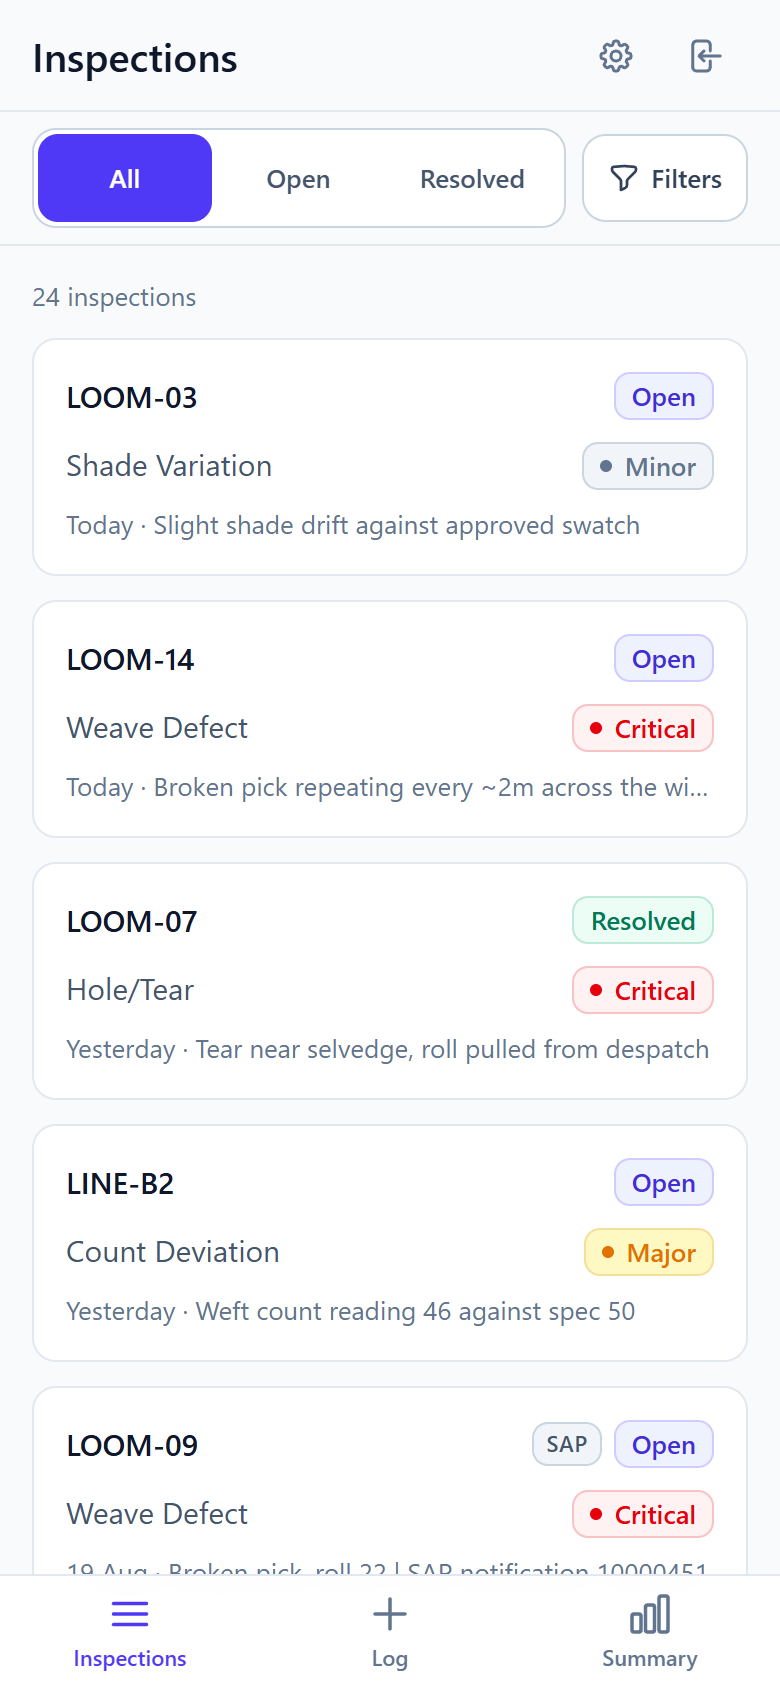
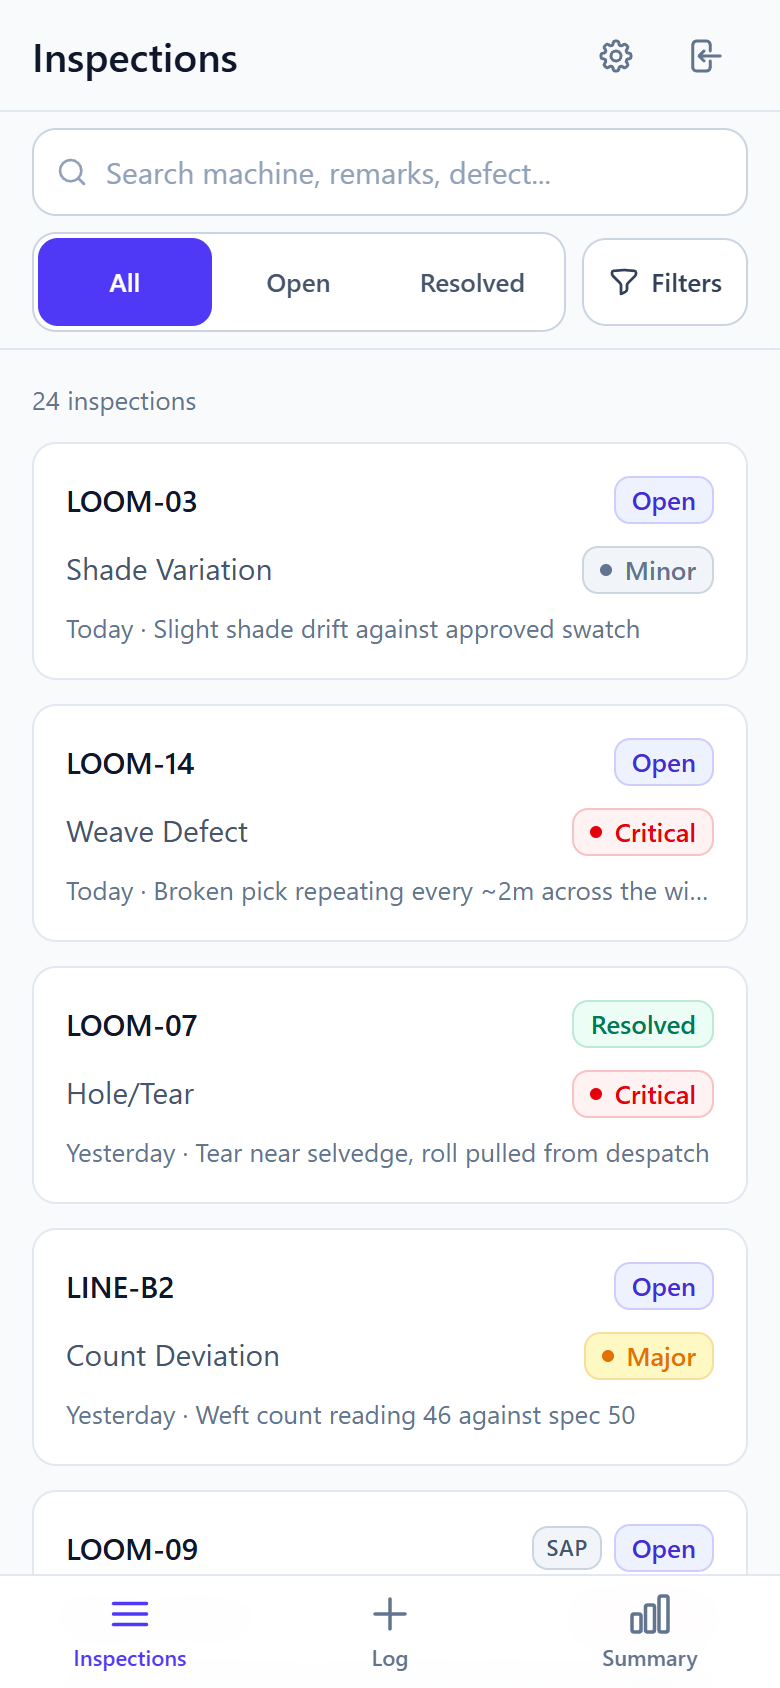
feat: free-text search across inspections
One box searching machine ID, remarks, resolution notes and defect type
name, since a supervisor usually half-remembers a job rather than its
exact filters. Debounced into the URL like every other filter, so the
result stays shareable and survives a refresh.

LIKE wildcards in the term are escaped -- searching 'LINE_A' must not
also match 'LINE-A'.

diff --git a/web/src/pages/ListPage.tsx b/web/src/pages/ListPage.tsx
@@ -21,6 +21,33 @@ export function ListPage() {
   const [sheetOpen, setSheetOpen] = useState(false);
 
   /*
+   * The search box keeps its own state so typing stays responsive, and is
+   * mirrored into the URL after a pause. Without the debounce every keystroke
+   * would reset the result set and fire a request.
+   */
+  const urlSearch = params.get('q') ?? '';
+  const [search, setSearch] = useState(urlSearch);
+
+  // Re-sync when the URL changes from elsewhere, e.g. "Clear filters".
+  useEffect(() => setSearch(urlSearch), [urlSearch]);
+
+  useEffect(() => {
+    if (search === urlSearch) return;
+    const timer = setTimeout(() => {
+      setParams(
+        (previous) => {
+          const next = new URLSearchParams(previous);
+          if (search) next.set('q', search);
+          else next.delete('q');
+          return next;
+        },
+        { replace: true },
+      );
+    }, 300);
+    return () => clearTimeout(timer);
+  }, [search, urlSearch, setParams]);
+
+  /*
    * Filter state lives in the URL, not in component state: the view is
    * shareable, survives a refresh, and the Android back button undoes a filter.
    * It also maps 1:1 onto the API's query params, so there is no syncing code.
@@ -89,7 +116,7 @@ export function ListPage() {
   const activeCount = SHEET_PARAMS.filter((key) => params.get(key)).length;
   const chips = buildChips(params, defectTypes ?? [], remove);
   const hasMore = meta ? items.length < meta.total : false;
-  const isFiltered = activeCount > 0 || Boolean(params.get('status'));
+  const isFiltered = activeCount > 0 || Boolean(params.get('status')) || Boolean(urlSearch);
 
   return (
     <AppShell
@@ -101,6 +128,9 @@ export function ListPage() {
           activeCount={activeCount}
           chips={chips}
           onOpenFilters={() => setSheetOpen(true)}
+          search={search}
+          onSearchChange={setSearch}
+          searchPending={search !== urlSearch}
         />
       }
     >
@@ -119,13 +149,21 @@ export function ListPage() {
         <EmptyState
           title={isFiltered ? 'No matching inspections' : 'No inspections yet'}
           description={
-            isFiltered
-              ? 'Nothing matches the current filters. Try widening them.'
-              : 'Log the first defect and it will appear here.'
+            urlSearch
+              ? `Nothing matches "${urlSearch}". Search covers machine ID, remarks, resolution notes and defect type.`
+              : isFiltered
+                ? 'Nothing matches the current filters. Try widening them.'
+                : 'Log the first defect and it will appear here.'
           }
           action={
             isFiltered ? (
-              <Button variant="secondary" onClick={() => setParams({}, { replace: true })}>
+              <Button
+                variant="secondary"
+                onClick={() => {
+                  setSearch('');
+                  setParams({}, { replace: true });
+                }}
+              >
                 Clear filters
               </Button>
             ) : (

diff --git a/api/src/inspections/repository.ts b/api/src/inspections/repository.ts
@@ -62,11 +62,29 @@ export interface CreateInspectionRecord {
   externalRef?: string | null;
 }
 
-const SELECT_INSPECTION = `
-  SELECT i.*, d.name AS defect_type, d.code AS defect_type_code
+const FROM_INSPECTIONS = `
   FROM inspections i
   JOIN defect_types d ON d.id = i.defect_type_id
 `;
+
+const SELECT_INSPECTION = `
+  SELECT i.*, d.name AS defect_type, d.code AS defect_type_code
+  ${FROM_INSPECTIONS}
+`;
+
+/**
+ * LIKE treats % and _ as wildcards, so a supervisor searching for "50_2" would
+ * silently also match "5012". Escaping them keeps the search literal.
+ *
+ * '!' is the escape character rather than the conventional backslash purely for
+ * legibility: a backslash would need doubling in both the SQL string and the
+ * JavaScript one, which is easy to get subtly wrong.
+ */
+const LIKE_ESCAPE = '!';
+
+function likeTerm(value: string): string {
+  return `%${value.replace(/[!%_]/g, (char) => LIKE_ESCAPE + char)}%`;
+}
 
 /**
  * Severity has to sort by meaning, not alphabetically -- as a string
@@ -122,8 +140,18 @@ function buildFilters(query: Partial<ListQuery>): { clause: string; params: unkn
     params.push(...query.defectTypeId);
   }
   if (query.machineId) {
-    conditions.push('i.machine_id LIKE ?');
-    params.push(`%${query.machineId}%`);
+    conditions.push(`i.machine_id LIKE ? ESCAPE '${LIKE_ESCAPE}'`);
+    params.push(likeTerm(query.machineId));
+  }
+  // One box covering everything a supervisor might remember about a defect:
+  // where it happened, what was written down, and how it was fixed. The term is
+  // bound once and reused across all four columns.
+  if (query.q) {
+    const term = `LIKE ? ESCAPE '${LIKE_ESCAPE}'`;
+    conditions.push(
+      `(i.machine_id ${term} OR i.remarks ${term} OR i.resolution_note ${term} OR d.name ${term})`,
+    );
+    params.push(likeTerm(query.q), likeTerm(query.q), likeTerm(query.q), likeTerm(query.q));
   }
   // Both bounds inclusive: to=2026-08-21 includes everything logged that day.
   if (query.from) {
@@ -144,7 +172,7 @@ export function createInspectionRepository(db: Db) {
       const { clause, params } = buildFilters(query);
 
       const countRow = db.get<{ count: number }>(
-        `SELECT COUNT(*) AS count FROM inspections i ${clause}`,
+        `SELECT COUNT(*) AS count ${FROM_INSPECTIONS} ${clause}`,
         params,
       );
 
@@ -214,7 +242,7 @@ export function createInspectionRepository(db: Db) {
                 SUM(CASE WHEN i.status = 'Open'     THEN 1 ELSE 0 END) AS open,
                 SUM(CASE WHEN i.status = 'Resolved' THEN 1 ELSE 0 END) AS resolved,
                 COUNT(*) AS total
-           FROM inspections i ${clause}
+           ${FROM_INSPECTIONS} ${clause}
           GROUP BY i.severity`,
         params,
       );

diff --git a/web/src/components/SearchInput.tsx b/web/src/components/SearchInput.tsx
@@ -1,0 +1,59 @@
+interface Props {
+  value: string;
+  onChange: (value: string) => void;
+  /** True while the typed value has not yet been pushed to the URL. */
+  pending?: boolean;
+}
+
+/**
+ * `type="search"` gives phone keyboards a "Search" key instead of "Go", and
+ * lets the OS render its own clear affordance. The explicit clear button stays
+ * because Android does not draw one.
+ */
+export function SearchInput({ value, onChange, pending = false }: Props) {
+  return (
+    <div className="relative">
+      <svg
+        className="pointer-events-none absolute top-1/2 left-3 size-4 -translate-y-1/2 text-slate-400"
+        viewBox="0 0 24 24"
+        fill="none"
+        strokeWidth="2"
+        stroke="currentColor"
+        aria-hidden="true"
+      >
+        <path strokeLinecap="round" strokeLinejoin="round" d="m21 21-4.35-4.35M19 11a8 8 0 1 1-16 0 8 8 0 0 1 16 0Z" />
+      </svg>
+
+      <input
+        type="search"
+        inputMode="search"
+        enterKeyHint="search"
+        aria-label="Search inspections"
+        placeholder="Search machine, remarks, defect..."
+        className="min-h-11 w-full rounded-xl border border-slate-300 bg-white pr-10 pl-9 text-body text-slate-900 placeholder:text-slate-400 focus:border-brand-600 focus:outline-none focus:ring-2 focus:ring-brand-600/20 [&::-webkit-search-cancel-button]:hidden"
+        value={value}
+        onChange={(event) => onChange(event.target.value)}
+      />
+
+      {value && (
+        <button
+          type="button"
+          onClick={() => onChange('')}
+          aria-label="Clear search"
+          className="absolute top-1/2 right-1 flex size-9 -translate-y-1/2 items-center justify-center rounded-lg text-slate-400 hover:bg-slate-100 hover:text-slate-600"
+        >
+          {pending ? (
+            <svg className="size-4 animate-spin" viewBox="0 0 24 24" fill="none" aria-hidden="true">
+              <circle cx="12" cy="12" r="10" stroke="currentColor" strokeWidth="3" className="opacity-25" />
+              <path d="M12 2a10 10 0 0 1 10 10" stroke="currentColor" strokeWidth="3" strokeLinecap="round" />
+            </svg>
+          ) : (
+            <svg className="size-4" viewBox="0 0 24 24" fill="none" strokeWidth="2.5" stroke="currentColor" aria-hidden="true">
+              <path strokeLinecap="round" d="M6 6l12 12M18 6L6 18" />
+            </svg>
+          )}
+        </button>
+      )}
+    </div>
+  );
+}

diff --git a/api/src/__tests__/inspections.test.ts b/api/src/__tests__/inspections.test.ts
@@ -230,6 +230,50 @@ describe('inspections list: filtering, sorting, pagination', () => {
     assert.equal(singleDay.body.meta.total, 2, 'a one-day range returns that day');
   });
 
+  it('searches machine id, remarks, resolution note and defect type together', async () => {
+    const byMachine = await list('q=LINE-A');
+    assert.equal(byMachine.body.meta.total, 1);
+    assert.equal(byMachine.body.data[0].machineId, 'LINE-A');
+
+    // Remarks and resolution notes are searchable, not just structured fields.
+    const byResolution = await list('q=Done');
+    assert.equal(byResolution.body.meta.total, 1);
+    assert.equal(byResolution.body.data[0].resolutionNote, 'Done');
+
+    // Defect type is joined, so its name is searchable too.
+    const byDefectType = await list('q=Hole');
+    assert.equal(byDefectType.body.meta.total, 2);
+  });
+
+  it('searches case-insensitively', async () => {
+    const lower = await list('q=line-a');
+    const upper = await list('q=LINE-A');
+    assert.equal(lower.body.meta.total, upper.body.meta.total);
+    assert.equal(lower.body.meta.total, 1);
+  });
+
+  it('returns an empty page rather than an error when nothing matches', async () => {
+    const res = await list('q=nothingmatchesthis');
+    assert.equal(res.status, 200);
+    assert.equal(res.body.meta.total, 0);
+    assert.deepEqual(res.body.data, []);
+  });
+
+  // Unescaped, '_' is a single-character wildcard and '%' matches anything.
+  it('treats LIKE wildcards in the search term as literal characters', async () => {
+    const underscore = await list('q=LINE_A');
+    assert.equal(underscore.body.meta.total, 0, "'_' must not match the '-' in LINE-A");
+
+    const percent = await list('q=%25');
+    assert.equal(percent.body.meta.total, 0, "'%' must not match every row");
+  });
+
+  it('combines search with the other filters', async () => {
+    const res = await list('q=LOOM&status=Open&severity=Critical');
+    assert.equal(res.body.meta.total, 1);
+    assert.equal(res.body.data[0].machineId, 'LOOM-02');
+  });
+
   it('rejects a range where from is after to with 422', async () => {
     const res = await list(`from=${today}&to=${shiftIsoDate(today, -5)}`);
     assert.equal(res.status, 422);

diff --git a/web/src/components/FilterBar.tsx b/web/src/components/FilterBar.tsx
@@ -1,6 +1,7 @@
 import { STATUSES } from '../lib/constants.ts';
 import { formatDate } from '../lib/format.ts';
 import type { DefectType } from '../lib/types.ts';
+import { SearchInput } from './SearchInput.tsx';
 
 export interface ActiveChip {
   key: string;
@@ -14,6 +15,9 @@ interface Props {
   activeCount: number;
   chips: ActiveChip[];
   onOpenFilters: () => void;
+  search: string;
+  onSearchChange: (value: string) => void;
+  searchPending: boolean;
 }
 
 const SEGMENTS = ['', ...STATUSES];
@@ -23,9 +27,24 @@ const SEGMENTS = ['', ...STATUSES];
  * open?"), so it is always visible as a segmented control -- zero taps to see,
  * one to apply. Everything rarer lives behind the Filters button.
  */
-export function FilterBar({ status, onStatusChange, activeCount, chips, onOpenFilters }: Props) {
+export function FilterBar({
+  status,
+  onStatusChange,
+  activeCount,
+  chips,
+  onOpenFilters,
+  search,
+  onSearchChange,
+  searchPending,
+}: Props) {
   return (
     <div className="border-b border-slate-200 px-4 py-2">
+      {/* Search sits above the status control: it is the widest net, and on a
+          phone it is what someone reaches for when they half-remember a job. */}
+      <div className="mb-2">
+        <SearchInput value={search} onChange={onSearchChange} pending={searchPending} />
+      </div>
+
       <div className="flex items-center gap-2">
         <div className="flex flex-1 rounded-xl border border-slate-300 bg-white p-0.5">
           {SEGMENTS.map((segment) => (

diff --git a/api/src/domain/schemas.ts b/api/src/domain/schemas.ts
@@ -75,6 +75,9 @@ export const listQuerySchema = z
     severity: enumList(SEVERITIES),
     defectTypeId: idList,
     machineId: z.string().trim().max(60).optional(),
+    // Free-text search across machine ID, remarks, resolution note and
+    // defect type name. `machineId` stays as a narrower, explicit filter.
+    q: z.string().trim().max(100).optional(),
     from: isoDate.optional(),
     to: isoDate.optional(),
     sort: z.enum(['inspectedOn', 'severity', 'status', 'machineId', 'createdAt']).default('inspectedOn'),

diff --git a/README.md b/README.md
@@ -157,6 +157,7 @@ anything specific to this project.
 - Log an inspection — date, machine/line ID, defect type, severity, remarks
 - List with filtering by severity, status and date range, plus sorting and
   pagination
+- Free-text search across machine ID, remarks, resolution notes and defect type
 - Resolve an inspection with a mandatory resolution note
 - Summary of open/resolved counts by severity
 
@@ -263,6 +264,9 @@ screen.
 - **Bottom tab bar, not a hamburger.** Three destinations, all thumb-reachable.
   Logging is the supervisor's main job, so it has a permanent tab and is one tap
   from anywhere.
+- **Search is the first thing on the screen**, because half-remembering a job
+  ("that selvedge tear last week") is more common than knowing its exact
+  filters. It is debounced, so typing does not fire a request per keystroke.
 - **Status filter always visible** as a segmented control, since "what's still
   open?" is the constant question. Rarer filters live in a bottom sheet, and
   whatever is applied shows as removable chips — you are never stuck in a

diff --git a/docs/API.md b/docs/API.md
@@ -87,7 +87,8 @@ Send it as `Authorization: Bearer <token>`. Tokens expire after 12 hours.
 | `status` | `Open` \| `Resolved` | all |
 | `severity` | `Critical` \| `Major` \| `Minor`; repeatable or comma-separated | all |
 | `defectTypeId` | integer; repeatable or comma-separated | all |
-| `machineId` | case-insensitive substring match | — |
+| `q` | free-text search across machine ID, remarks, resolution note and defect type name | — |
+| `machineId` | case-insensitive substring match on machine ID only | — |
 | `from` / `to` | `YYYY-MM-DD`, **inclusive on both ends** | unbounded |
 | `sort` | `inspectedOn` \| `severity` \| `status` \| `machineId` \| `createdAt` | `inspectedOn` |
 | `order` | `asc` \| `desc` | `desc` |
